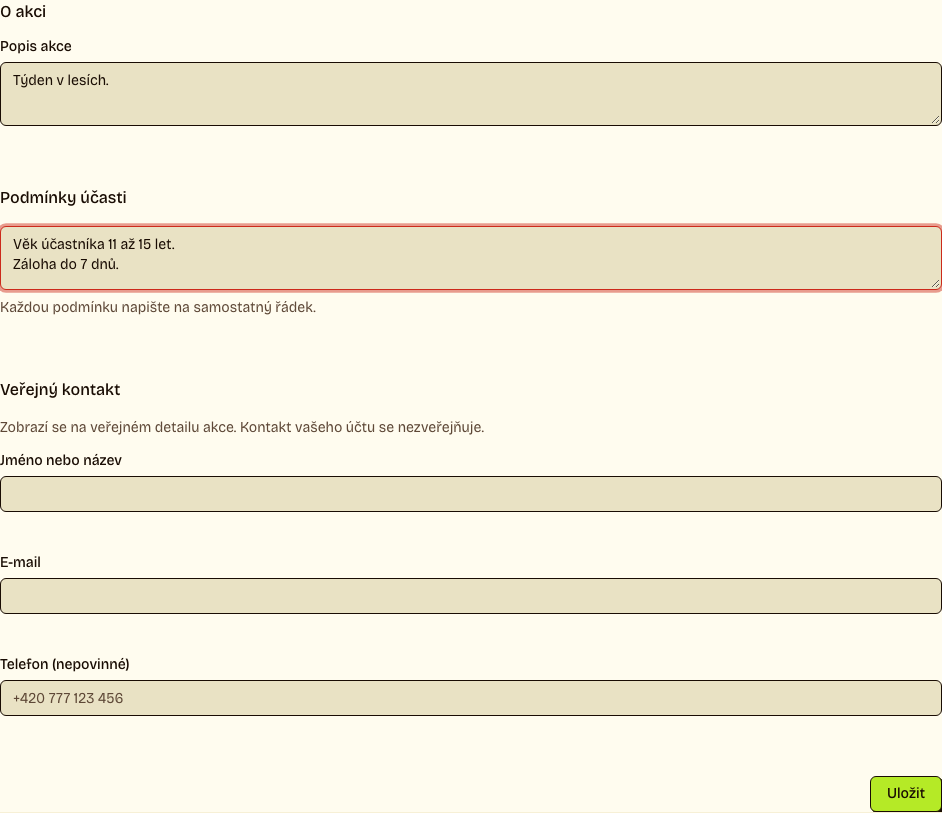
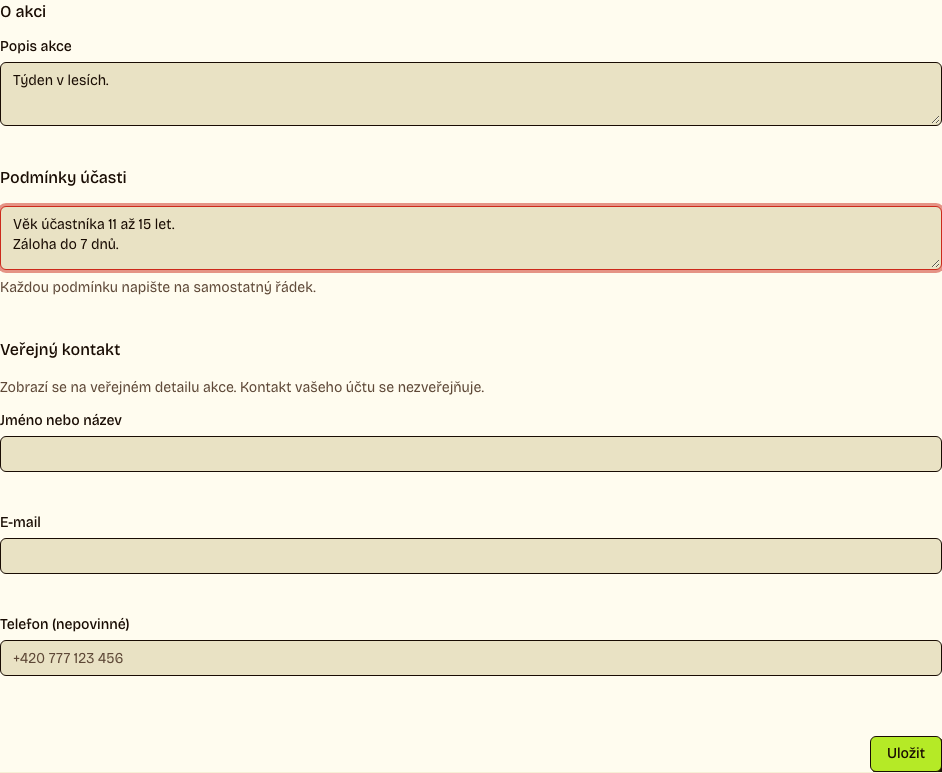
fix: tighten the spacing of participation terms in event settings (F07)

diff --git a/apps/frontend/src/features/events/components/EventPublicPresentation.tsx b/apps/frontend/src/features/events/components/EventPublicPresentation.tsx
@@ -252,7 +252,7 @@ export function EventPublicPresentation({
                             Od prvního otevření přihlašování popis nelze měnit.
                           </FormDescription>
                         ) : null}
-                        <FormMessage />
+                        <FormMessage className="min-h-0" />
                       </FormItem>
                     )}
                   />
@@ -276,7 +276,7 @@ export function EventPublicPresentation({
                         <FormDescription>
                           Každou podmínku napište na samostatný řádek.
                         </FormDescription>
-                        <FormMessage />
+                        <FormMessage className="min-h-0" />
                       </FormItem>
                     )}
                   />
